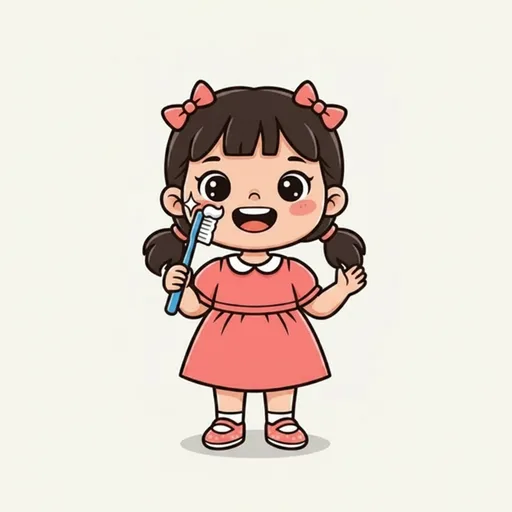
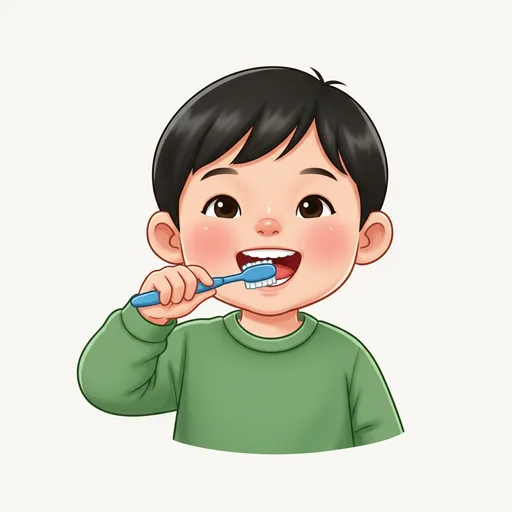
Feat: animation diversity Batch 1a — 5 verbs re-cast (fresh method)
First diverse verb animations (ANIMATION_DIVERSITY_SCOPE.md, fresh method — each
verb = one consistent diverse child across its 2 frames): jumping (Asian girl),
running (white boy), clapping (Black girl), eating (brown girl), brushing (Asian
boy). Replaces the old single-boy/single-girl frames. Scope doc added.

npm run check + verify-actions (device × reduced-motion) green.

diff --git a/docs/ANIMATION_DIVERSITY_SCOPE.md b/docs/ANIMATION_DIVERSITY_SCOPE.md
@@ -1,0 +1,84 @@
+# Animation diversity re-work — scope & end-to-end vision
+
+> The static illustrations are multi-ethnic; the **animations** aren't. The "Things I Do"
+> verb loops (and a few child-featuring songs) use exactly **two kids** — one boy
+> (`song-ready`) + one girl (`act-girl-ready`), each a single skin tone. This scopes making
+> the animated cast span **Black / brown / white / East-Asian × boy & girl**, matching the
+> static-image inclusivity convention. Owner-approved direction (2026-08-27). Heavy, iterative,
+> eye-check-intensive — **plan fully, pilot the method, then churn in reviewable batches.**
+
+## Diversity model — ROTATE across the set (not multiply)
+Each verb keeps ONE consistent child across its 2 frames; **different verbs get different
+kids**, so the whole collection is balanced. Social "both-kid" verbs pair two different
+ethnicities together (a lovely message). This is exactly how the static images were
+diversified (skin-tone rotation) and costs ~1× the frames, not ~4×. *(Rejected: per-verb
+ethnic variants shown at random — 4× the frames for marginal gain.)*
+
+## In / out of scope
+- **IN:** the **~24 solo + 5 social action verbs** (59 `act-*` frames) — the real target.
+- **IN (secondary):** the **~4 child-featuring songs** (Head-Shoulders, Hokey Pokey, Happy,
+  One-Two-Buckle) that reuse the boy.
+- **OUT:** object/animal songs (teapot, star, clock, lamb…) — no race; unaffected.
+
+## Proposed casting sheet (rotate Black→brown→white→Asian × boy/girl)
+Solo verbs:
+| Verb | Cast | Verb | Cast |
+|---|---|---|---|
+| washing | Black boy | crying | Black boy |
+| drinking | brown girl | painting | brown girl |
+| walking | white boy | throwing | white boy |
+| jumping | Asian girl | cooking | Asian girl |
+| brushing | Black girl | waking | Black girl |
+| kicking | brown boy | pointing | brown boy |
+| waving | white girl | getting dressed | white girl |
+| riding | Asian boy | eating | brown girl |
+| blowing | Black boy | sleeping | white boy |
+| running | Asian girl | clapping | Black girl |
+| climbing | brown boy | reading | white girl |
+| swimming | Asian boy | | |
+
+Social (two different ethnicities together):
+| Verb | Pair |
+|---|---|
+| hugging | Black boy + Asian girl |
+| dancing | brown girl + white boy |
+| laughing | white girl + Black boy |
+| playing | Asian boy + brown girl |
+| peekaboo | Black girl + white boy |
+
+→ Balanced ~6 per ethnicity, even genders. **This is a proposal — easily reshuffled.**
+
+## The crux: generation method (PILOT before churning)
+Today's pipeline is **anchor-conditioned** — frames condition on a flat base pose for
+consistency, but our prior note found *anchoring pulls the render flat*. Options:
+- **(A) Anchored (current):** draw ~8 diverse base poses (4×2), regen each verb's frames on
+  its base. Safe consistency, flatter look.
+- **(B) Fresh per verb:** generate each frame from a **detailed character spec** (skin tone,
+  hair, clothing) + the action, no anchor — premium look, but 2-frame consistency is harder.
+- **Pilot:** generate **1–2 verbs both ways**, compare consistency × premium-ness on-device,
+  then commit to one method for all ~60 frames. *(Doing this first — see below.)*
+
+## Phases
+1. **Method pilot** (jumping + clapping, A vs B) → pick the method. ← *next*
+2. **Diverse base poses** (only if method A wins): ~8 forward-facing toddler bases.
+3. **Batch 1 — most-seen verbs first:** the routine verbs (eating/brushing/washing/getting/
+   waking/running/waving) + Things-I-Do favourites (jumping/clapping/dancing/hugging).
+4. **Batch 2 — the rest** of the solo + social verbs.
+5. **Child-featuring songs** (~4).
+6. Retire the old single-kid frames.
+
+## Gates (every batch)
+- **Owner eye-check every frame** — off-model / appropriateness (Claude can't judge quality
+  of a child's face reliably; this is the bottleneck).
+- **`verify-actions`** (device × reduced-motion matrix) stays green — verbs must still cycle.
+- On-device motion review (a still can look fine but jitter in motion).
+- **Consistency check:** a verb's 2 frames must be unmistakably the same child.
+
+## Effort (honest)
+~8 base poses + ~60 verb frames + ~4 song reworks, each generated, eye-checked, and
+motion-reviewed — realistically the **biggest art effort since the premium static re-render**,
+spread across several sessions. Cost is trivial (GCP credit); the bottleneck is **eye-check
+throughput**, which is why we batch and pilot.
+
+## Open (settled)
+Model = rotate (A). Cast = 4×2 even. Method = decided by the pilot. Priority = most-seen first.

diff --git a/TINYVVOICE_PROJECT_CONTEXT.md b/TINYVVOICE_PROJECT_CONTEXT.md
@@ -5,16 +5,16 @@ A git pre-commit hook auto-refreshes the metadata block below; the human-maintai
 sections (Build Status, Next Steps) are updated by hand each push.
 
 <!-- AUTO:START -->
-> _Auto-updated on commit — last refreshed **2026-08-28 02:22 UTC** on branch `main`._
+> _Auto-updated on commit — last refreshed **2026-08-28 16:59 UTC** on branch `main`._
 
 **Recent commits:**
 
+- `a8f74d8 Feat: routine images — dressing/bath/park (NEW WORK Phase 4)`
 - `7be82dd Feat: routine wording — bedtime + bath (NEW WORK Phase 3)`
 - `10af227 Feat: listening-game language — plural prompts + eating image (NEW WORK Phase 2)`
 - `018b40f Feat: Word Board restructure (NEW WORK Phase 1)`
 - `3ac658f Docs: defer #4 (sign-in OTP) until pilot feedback (owner decision)`
 - `d09b40d Docs: mark Sprint 1 complete in NEXT_BUILDS (parent wrapper shipped)`
-- `0b954ec Feat: per-child readiness card (Sprint 1 #3) — completes the parent wrapper`
 <!-- AUTO:END -->
 
 ---
